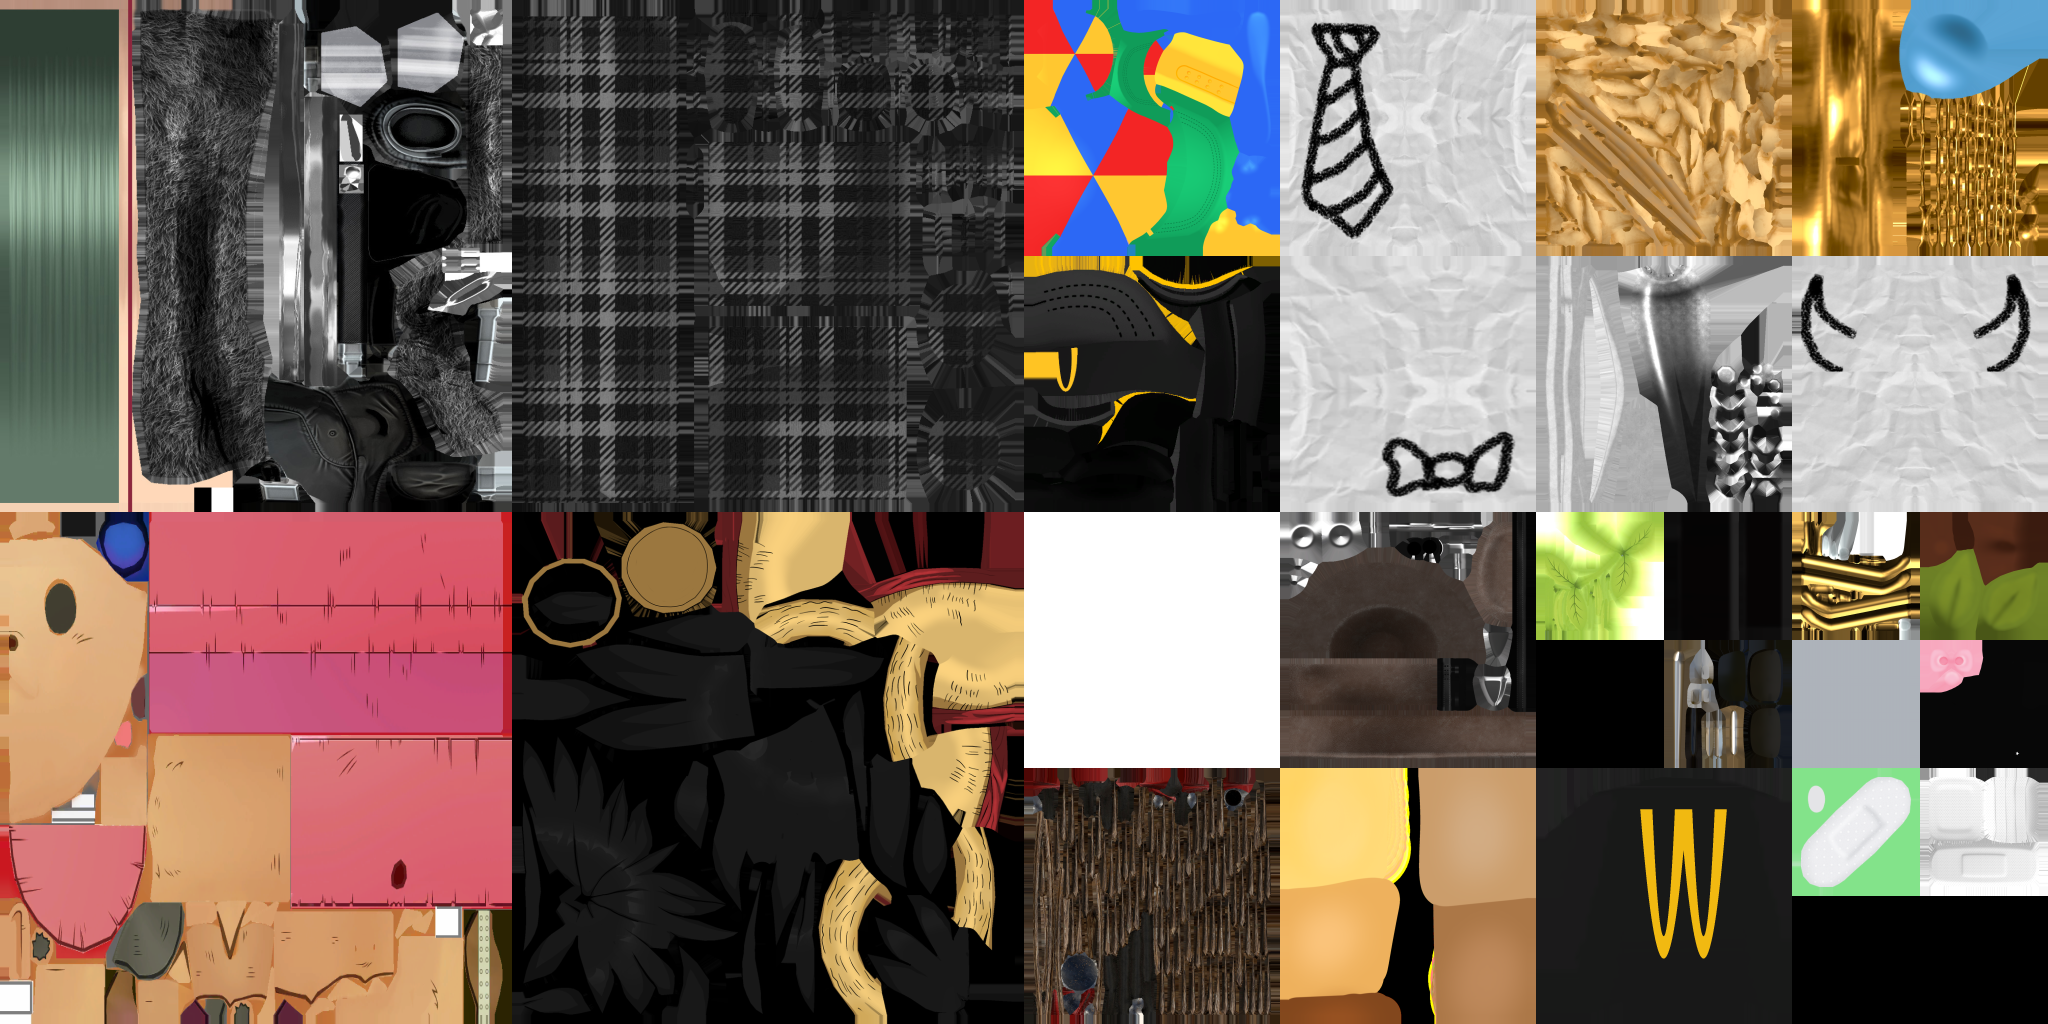
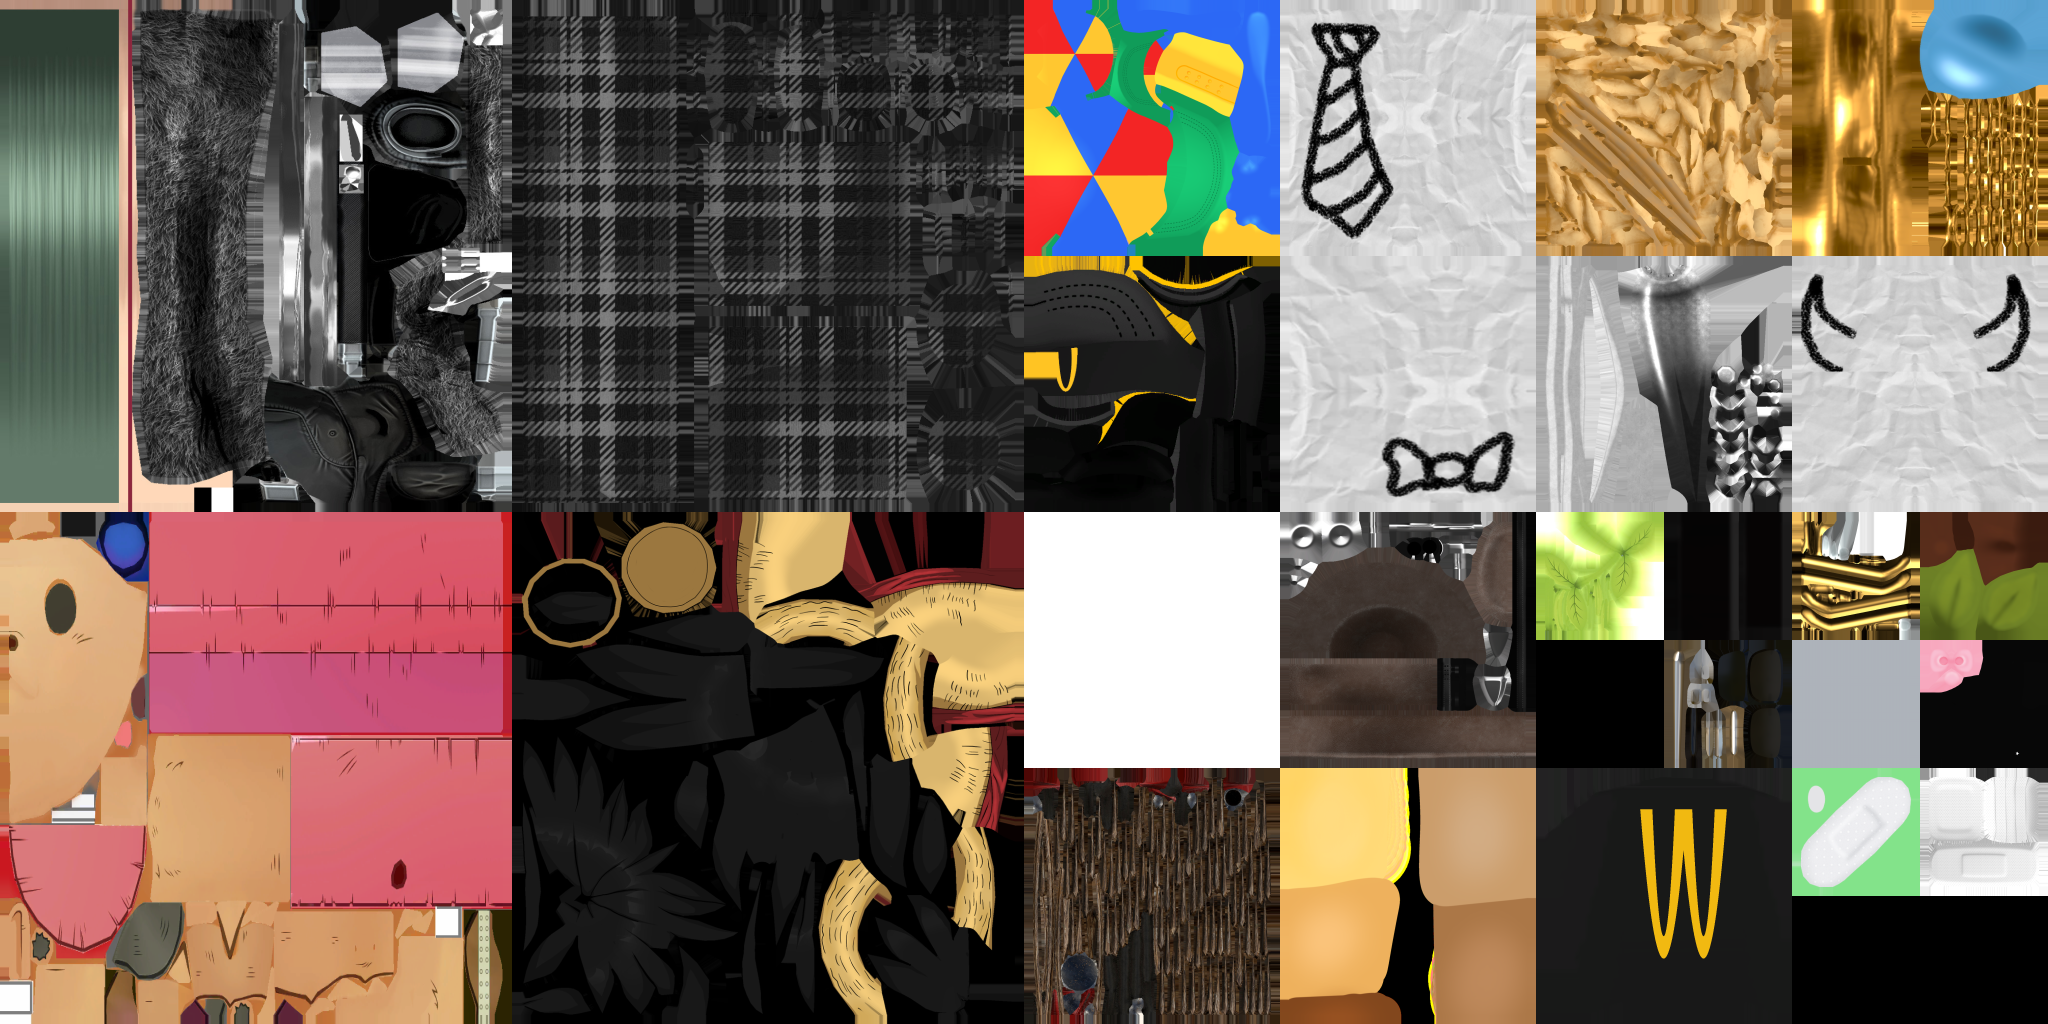
[build] wardrobe-b3: the gold monocle re-imported with the ring and the chain's first links collapsed apart (342 triangles, was a torn 129); before and after

Changed region(s): [[0.875, 0.0, 1.0, 0.25]]

diff --git a/art/characters/accessories/import_roblox.py b/art/characters/accessories/import_roblox.py
@@ -391,12 +391,13 @@ def decimate(ob, max_tris, recalc=False):
 def decimate_pieces(ob, spec, recalc=False):
     """An item of one big piece and many small ones (#11's ring and its chain's 40 links): collapsing the whole mesh to its
     cap shreds the ring and eats the links (129 triangles of a torn ring). The biggest piece keeps spec["main"] triangles
-    alone, and the rest, thinned to every spec["keep_every"]th piece by distance from the big one (a chain of fewer links),
-    share spec["rest"], each group collapsed on its own and then joined back into `ob`. Returns the triangle count."""
+    alone, and of the rest only the spec["keep"] pieces nearest the big one (the chain's first links; the remainder runs
+    behind the ear into the hair) share spec["rest"], each group collapsed on its own and then joined back into `ob`.
+    Returns the triangle count."""
     parts = sorted(pieces(ob, gap=0.0), key=len, reverse=True)
     co = np.array([v.co[:] for v in ob.data.vertices])
-    c0 = co[parts[0]].mean(0)
-    rest = sorted(parts[1:], key=lambda idx: np.linalg.norm(co[idx].mean(0) - c0))[::spec.get("keep_every", 1)]
+    near = lambda idx: min(np.linalg.norm(co[parts[0]] - co[i], axis=1).min() for i in idx)      # a piece's gap to the big one
+    rest = sorted(parts[1:], key=near)[:spec["keep"]]
     outs = []
     for idx, budget in ((parts[0], spec["main"]), (np.concatenate(rest), spec["rest"])):
         keep = set(int(i) for i in idx)
@@ -409,7 +410,7 @@ def decimate_pieces(ob, spec, recalc=False):
         bmesh.ops.delete(bm, geom=[v for v in bm.verts if not v.link_faces], context="VERTS")
         bm.to_mesh(cp.data)
         bm.free()
-        decimate(cp, budget, recalc)
+        print(f"PIECES {kit.ntris(cp)} -> {decimate(cp, budget, recalc)} (budget {budget})")
         outs.append(cp)
     bpy.ops.object.select_all(action="DESELECT")
     for o in outs:
